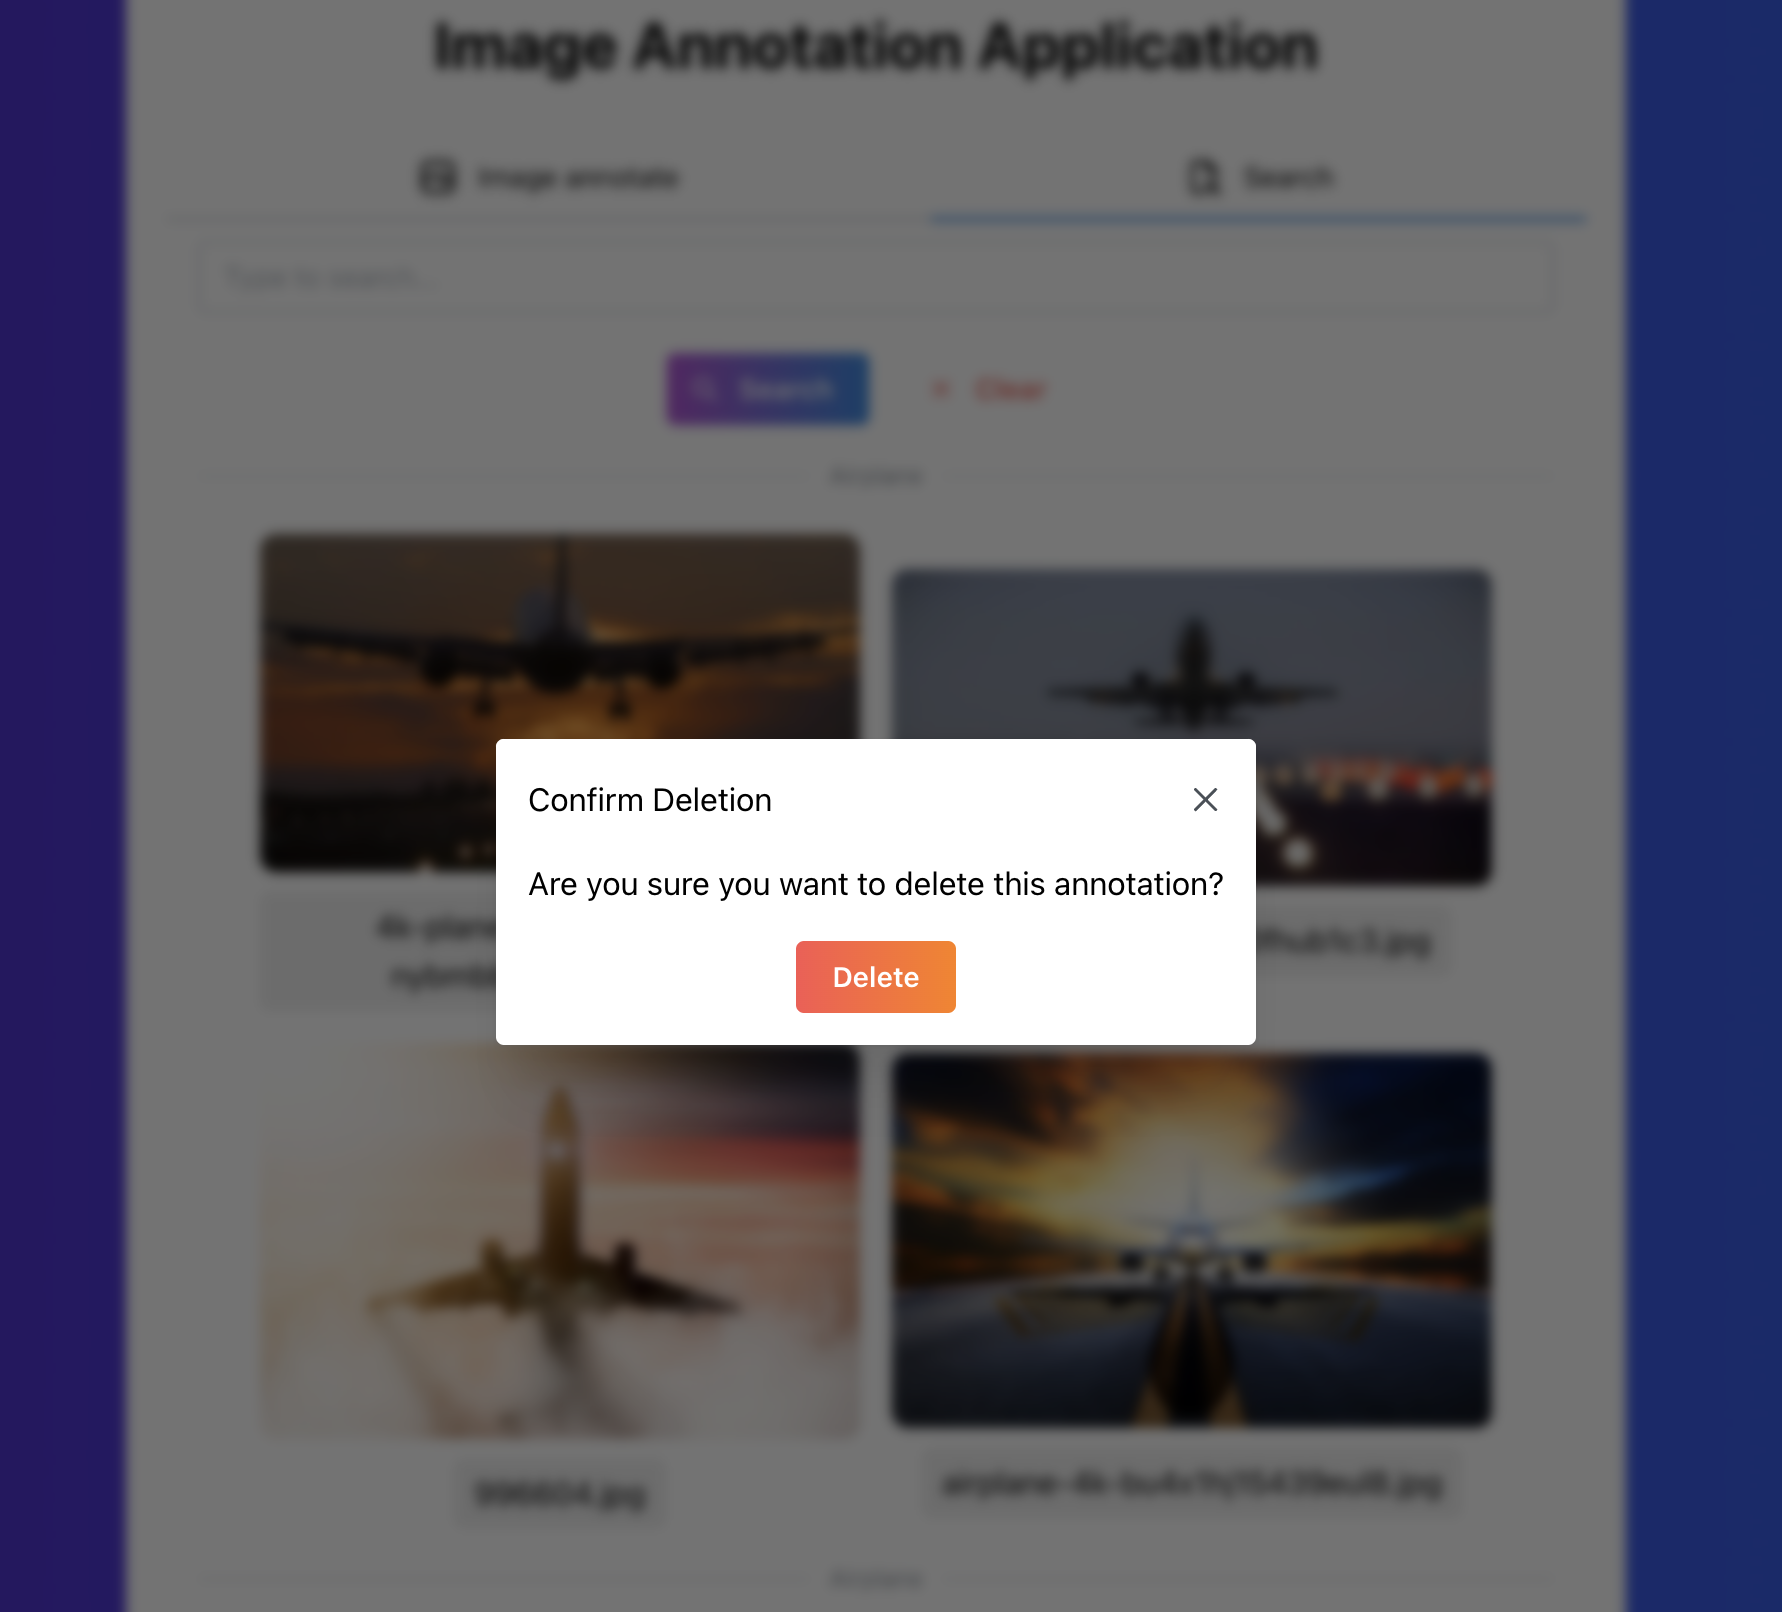
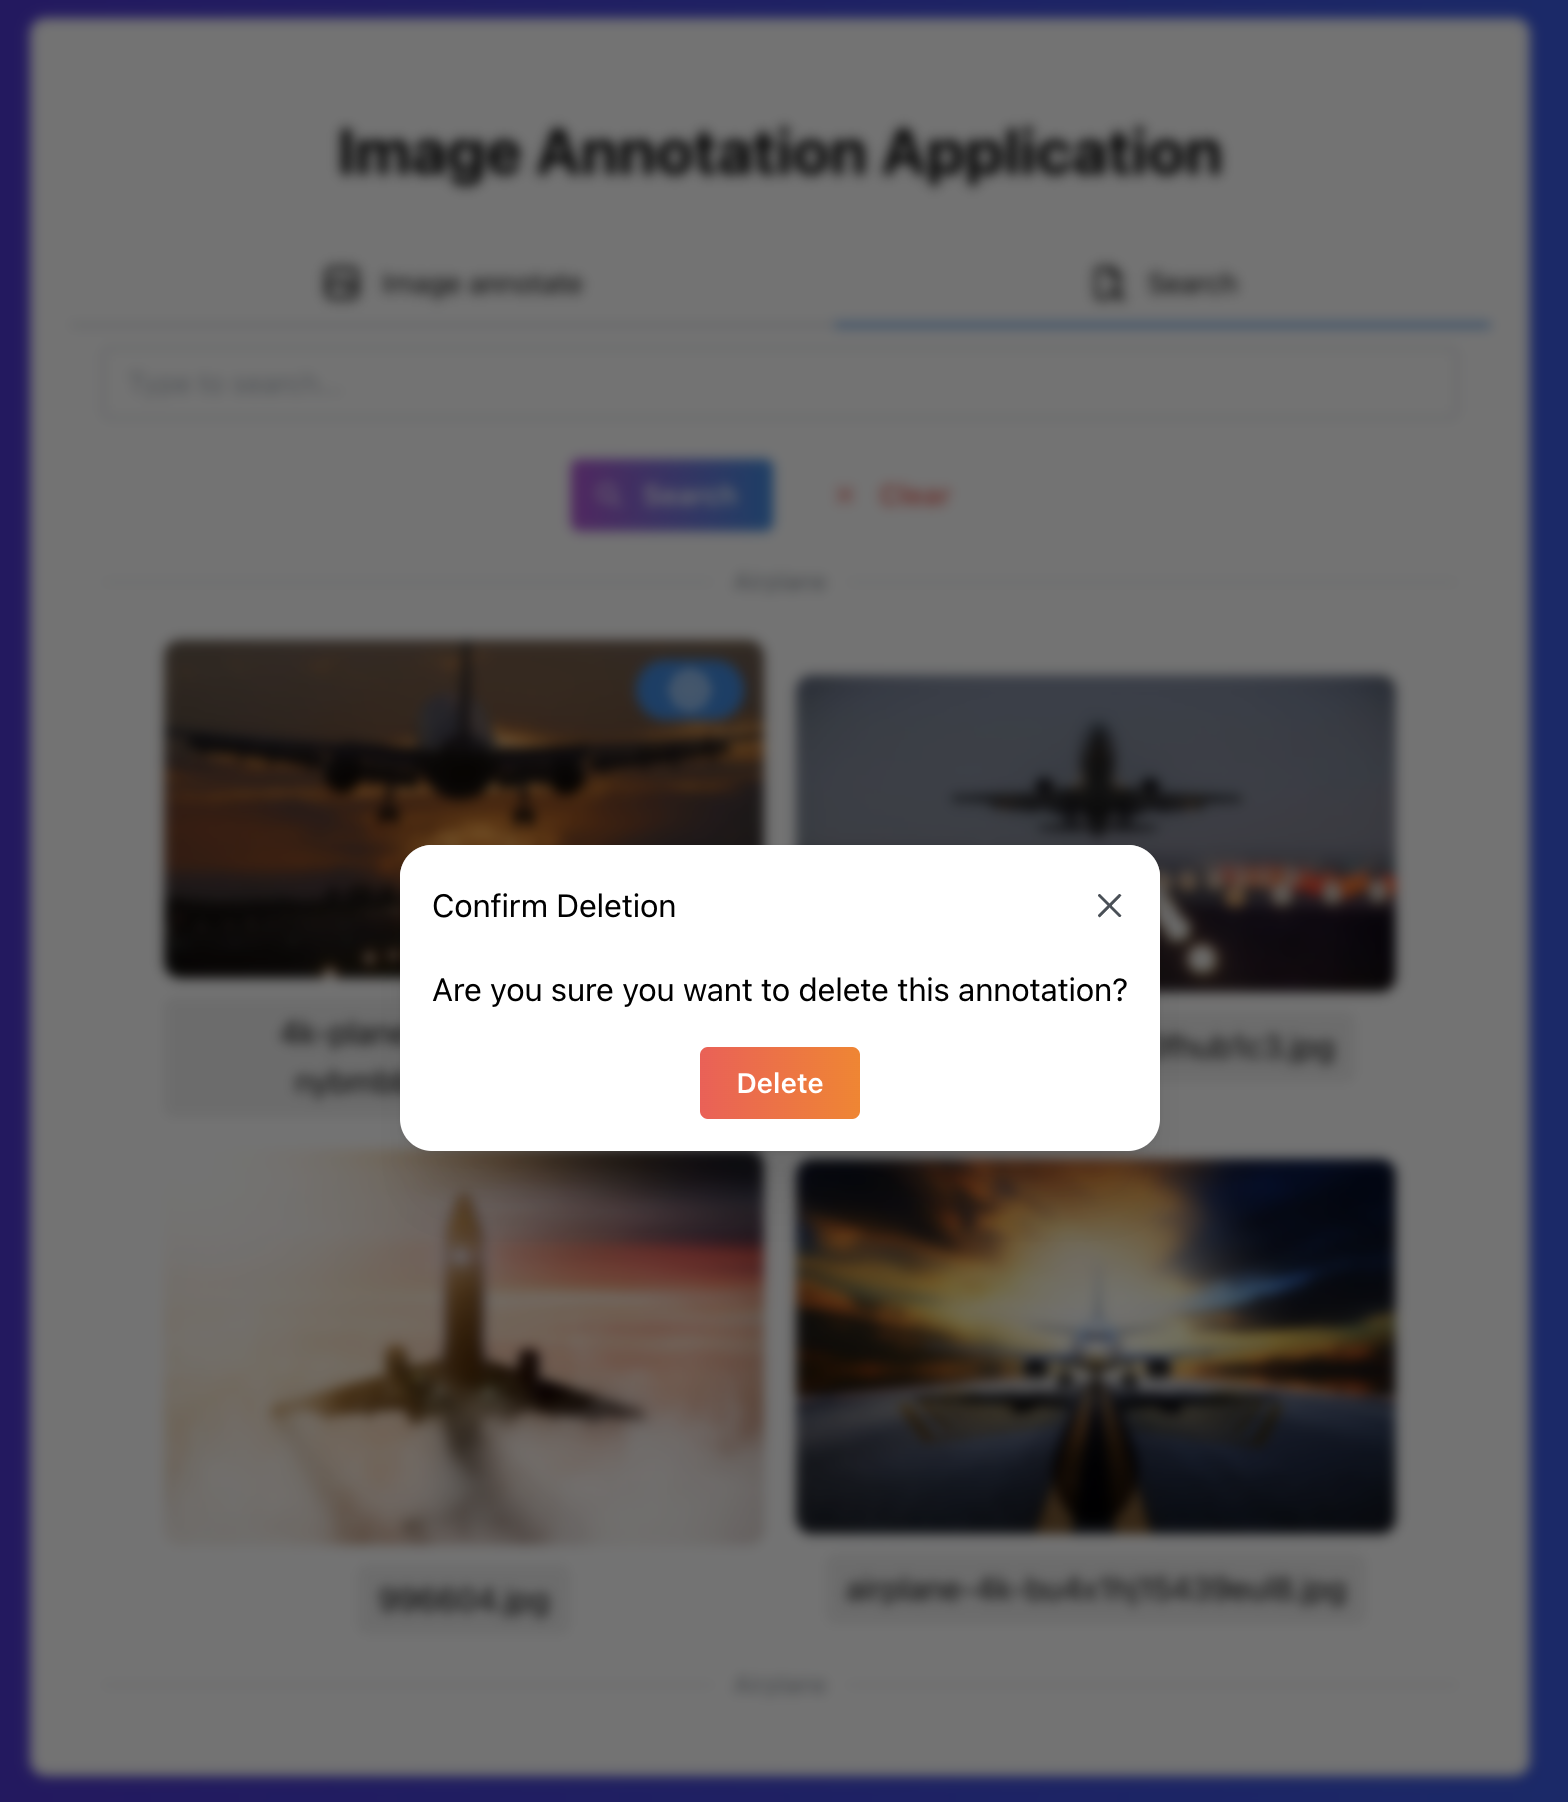
minor readme+ui changes

diff --git a/frontend/src/components/Search.js b/frontend/src/components/Search.js
@@ -348,6 +348,7 @@ function ImageSearch({ onFocusChange }) {
 						}}
 						transitionProps={{ transition: "skew-up" }}
 						centered
+						radius="lg"
 					>
 						<Stack align="center" justify="center" spacing="sm">
 							<Autocomplete
@@ -392,6 +393,7 @@ function ImageSearch({ onFocusChange }) {
 						}}
 						transitionProps={{ transition: "skew-down" }}
 						centered
+						radius="lg"
 					>
 						<Stack align="center" justify="center" spacing="sm">
 							<Text>
